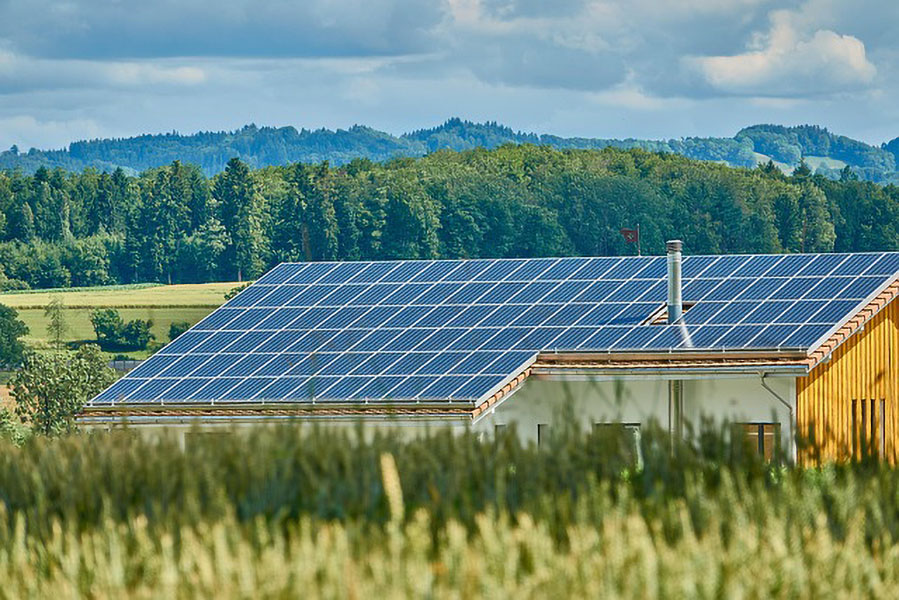
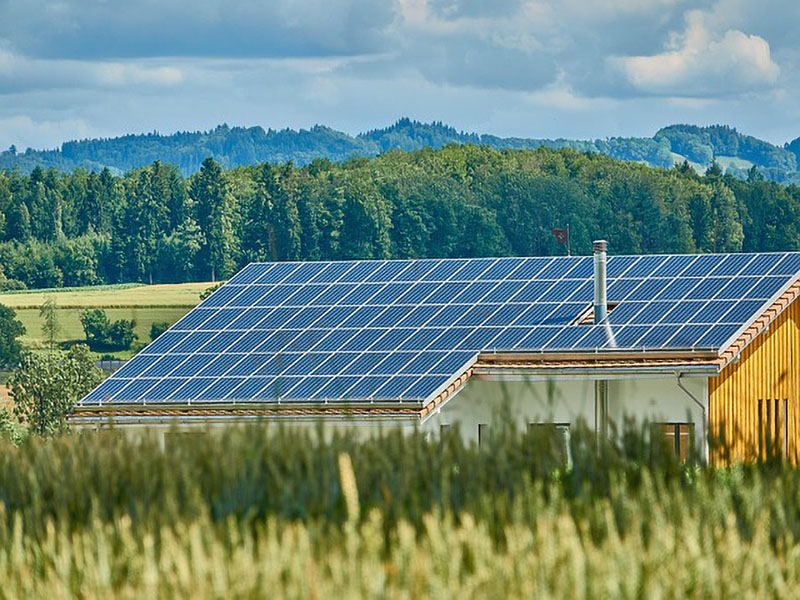
Image and formatting
the images are now in 2x2 row/columns and they have formatting,

diff --git a/solar.html b/solar.html
@@ -95,17 +95,27 @@
 		<p>The way solar power works is by converting sunlight into electricity using solar panels. </p>
     </div>
 
-<!-- for images -->
 <section class="container my-4">
   <h2>Examples of panels being utilised</h2>
-  <div class="row" id="solar-panel-imgs">
-  <img src="assets/img/solar-panel-charging-phone.jpg">
-  <img src="assets/img/solar-panel-in-farm.jpg">
-  <img src="assets/img/solar-panel-farm-in-field.jpg">
-  <img src="assets/img/solar-pan-house.jpg">
+  <div class="row g-2" id="solar-panel-imgs">
+    
+	<!-- First row -->
+    <div class="col-md-6">
+      <img src="assets/img/solar-panel-charging-phone.jpg" class="img-fluid" alt="Solar panel charging phone">
+    </div>
+    <div class="col-md-6">
+      <img src="assets/img/solar-panel-in-farm.jpg" class="img-fluid" alt="Solar panels in farm">
+    </div>
+    
+    <!-- Second row -->
+    <div class="col-md-6">
+      <img src="assets/img/solar-panel-farm-in-field.jpg" class="img-fluid" alt="Solar panels in field">
+    </div>
+    <div class="col-md-6">
+      <img src="assets/img/solar-pan-house.jpg" class="img-fluid" alt="Solar panels on house">
+    </div>
   </div>
 </section>
-
     <div class="container py-3">
         <footer class="footer d-flex flex-wrap justify-content-between align-items-center py-3 my-4">
             <p class="col-md-4 mb-0 text-muted">© 2025 A Sustainable World</p>
